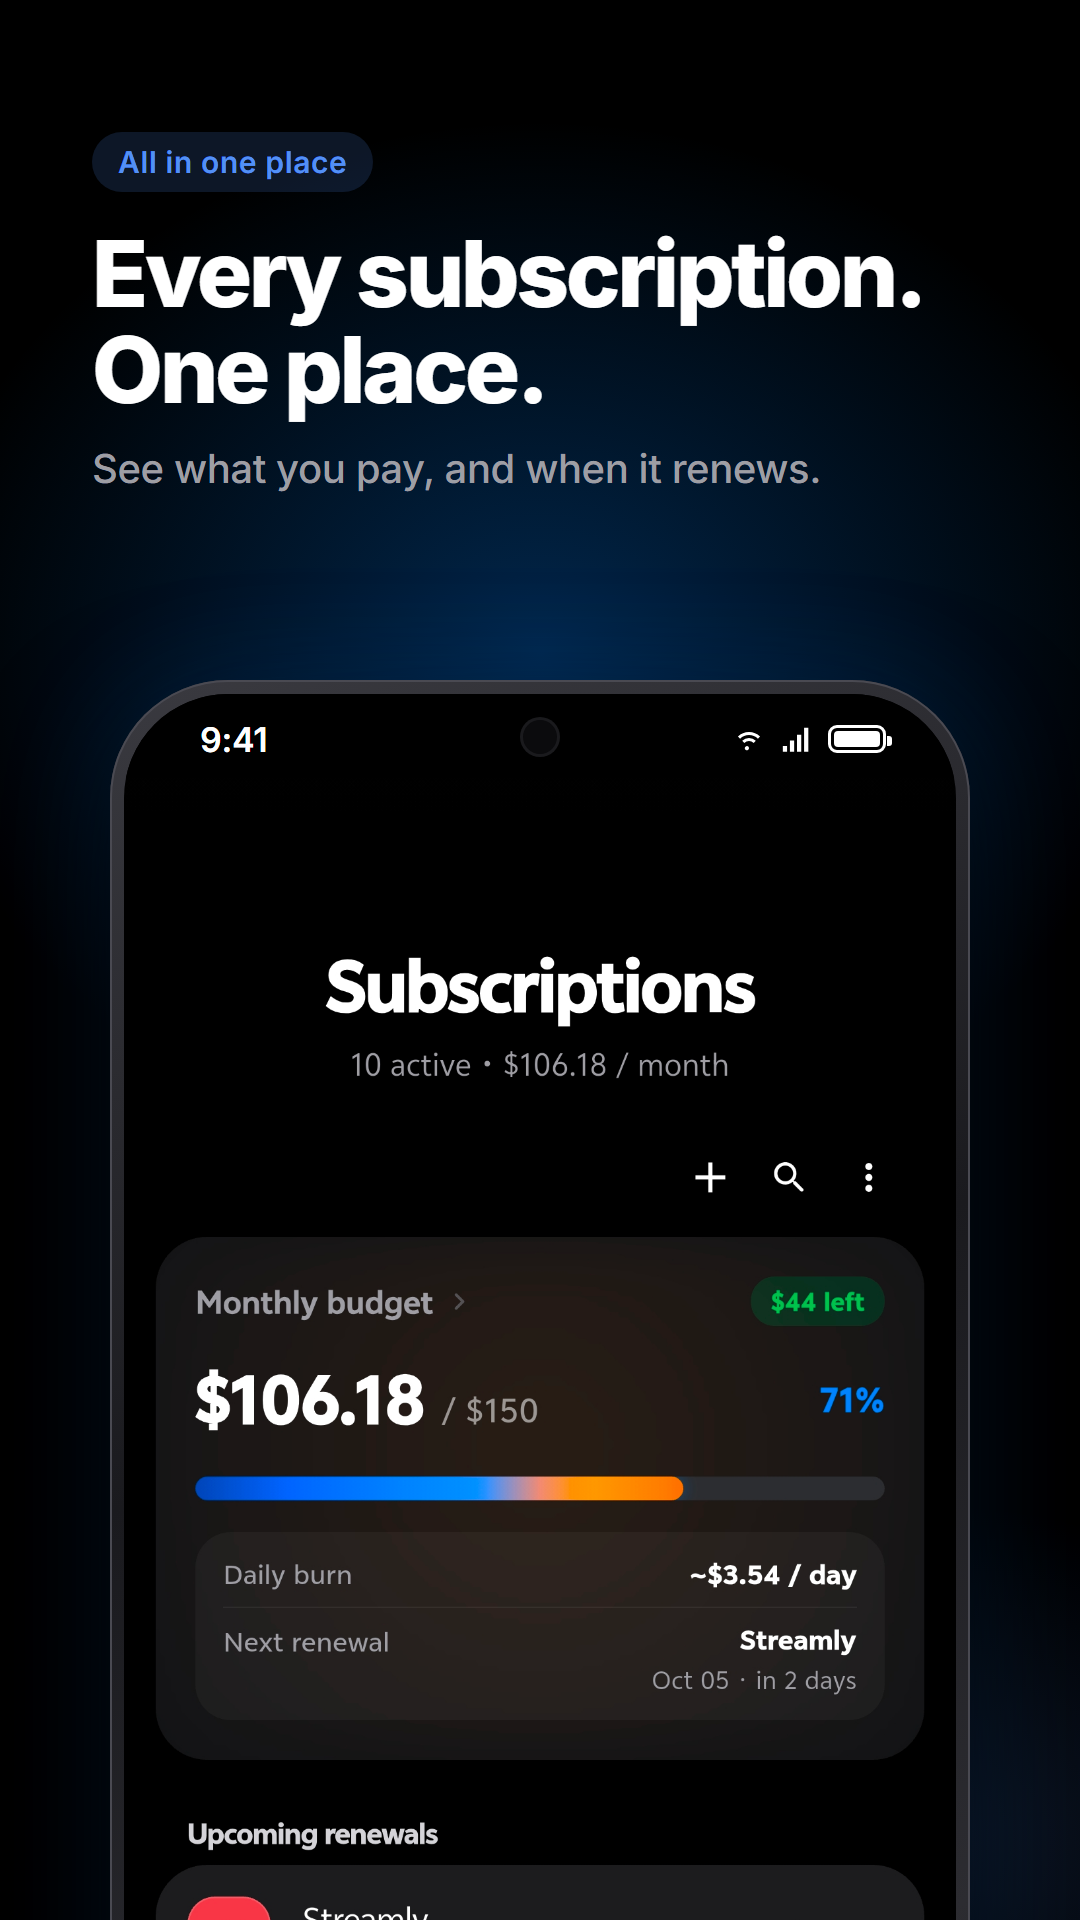
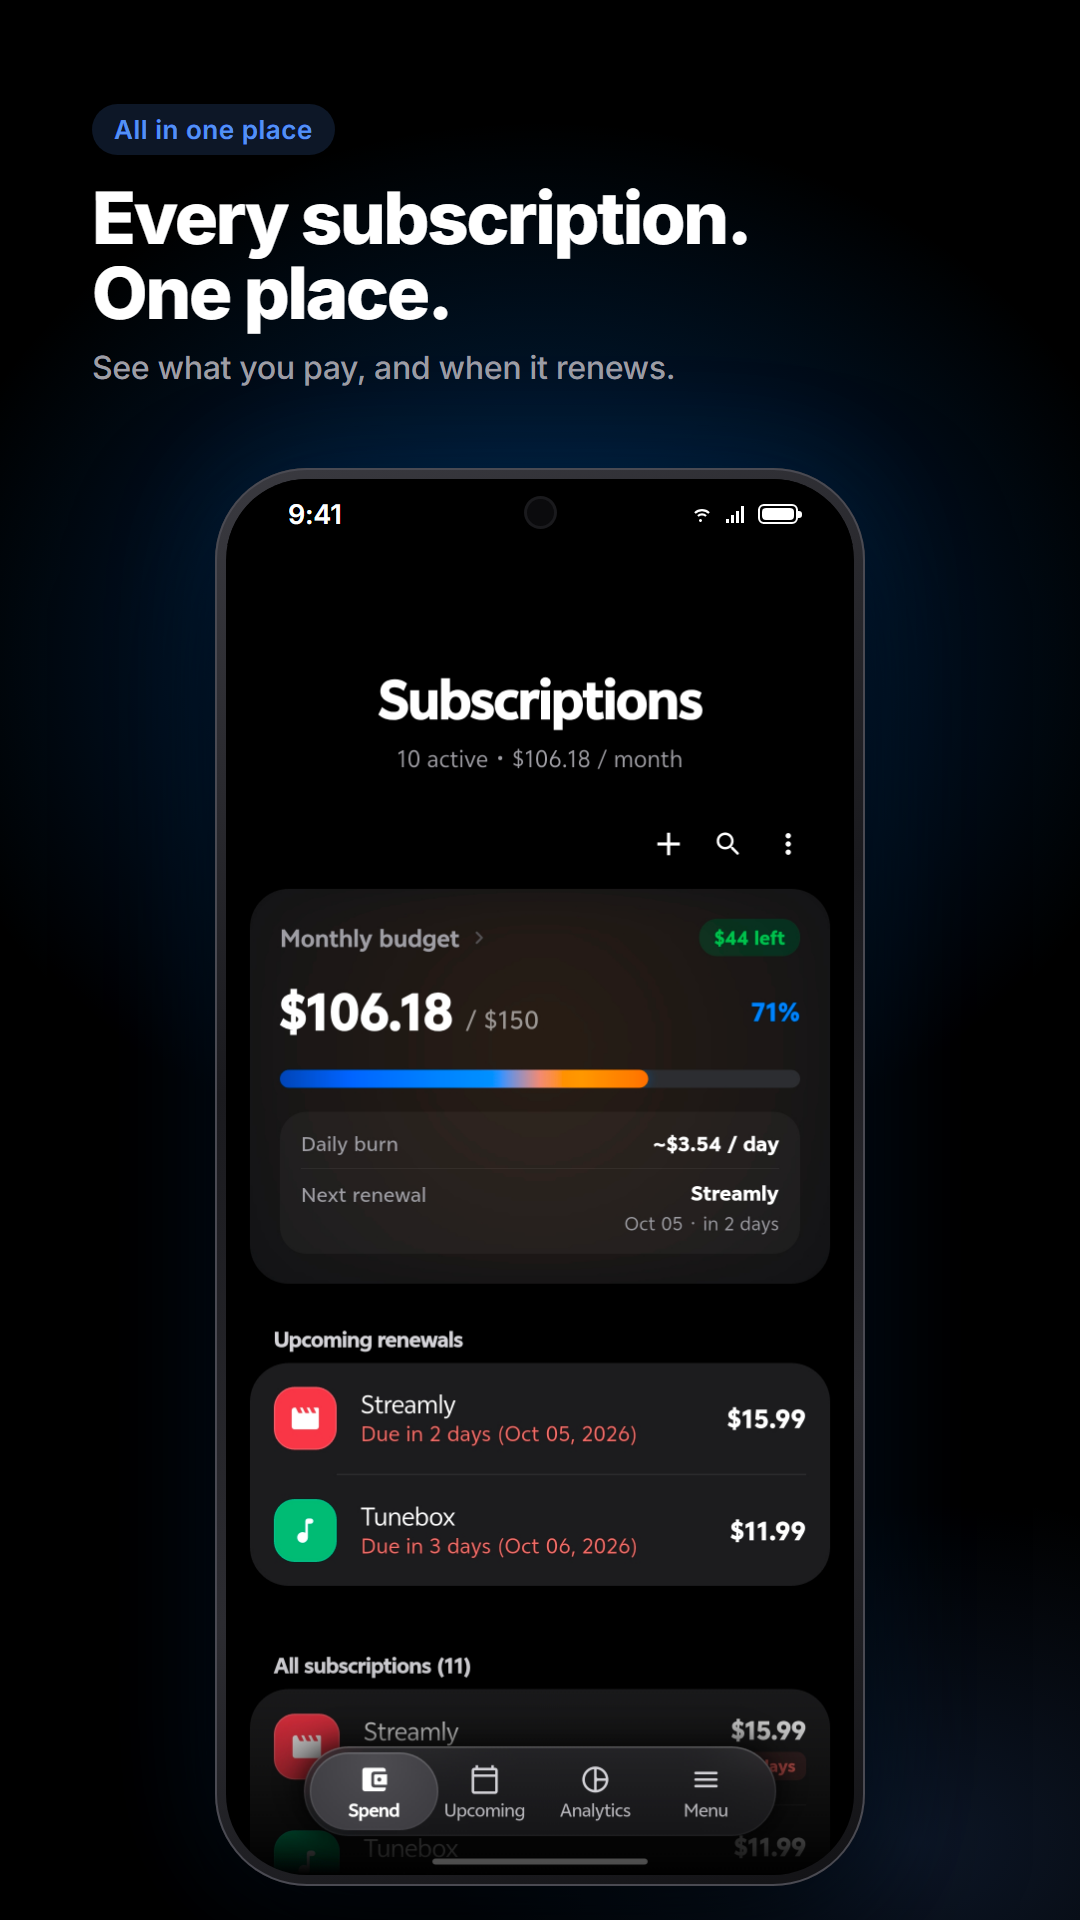
chore(store): full phone on slides 1-3, close-up on 4-8
Layouts are now chosen per slide; the full-phone slides keep the same
two-line headlines, set at 72 px so the whole phone fits.

diff --git a/tool/store_graphics/template.html b/tool/store_graphics/template.html
@@ -88,8 +88,8 @@
   .full .eyebrow { font-size: 26px; padding: 10px 22px; margin-bottom: 26px; }
   .full h1 { font-size: 72px; letter-spacing: -0.03em; }
   .full .sub { margin-top: 16px; font-size: 32px; }
-  .full .slide .phone { top: 398px !important; width: 690px; padding: 11px; border-radius: 96px; }
-  .full .slide .screen { border-radius: 85px; }
+  .full .slide .phone { top: 468px !important; width: 650px; padding: 11px; border-radius: 92px; }
+  .full .slide .screen { border-radius: 81px; }
   .full .slide .status { height: 66px; font-size: 27px; padding: 4px 56px 0 62px; }
   .full .slide .camera { top: 20px; width: 27px; height: 27px; margin-left: -13px; }
   .full .slide .battery { width: 40px; height: 20px; border-width: 2px; border-radius: 6px; padding: 2px; }
@@ -120,28 +120,28 @@
   // Captures are 1260 x 2800 (vivo X200 Pro). shift: capture pixels scrolled off the top
   // inside the frame; top: where the phone starts (close-up layout).
   const slides = {
-    1: { img: '1-subscriptions', short: 'All your subscriptions', shortSub: 'See what you pay and when it renews.',
+    1: { img: '1-subscriptions',
          eyebrow: 'All in one place', title: 'Every subscription.<br>One place.',
          sub: 'See what you pay, and when it renews.', accent: '#5390F5', glow: 'rgba(3,129,254,.30)', glow2: 'rgba(83,144,245,.16)' },
-    2: { img: '2-upcoming', short: 'Never miss a renewal', shortSub: 'Every charge, months ahead.',
+    2: { img: '2-upcoming',
          eyebrow: 'Upcoming', title: 'Never miss<br>a renewal.',
          sub: 'Every charge for the months ahead, at a glance.', accent: '#48B5A0', glow: 'rgba(72,181,160,.28)', glow2: 'rgba(72,181,160,.14)' },
-    3: { img: '3-trends', short: 'Spot every trend', shortSub: 'Your yearly total and smart tips.',
+    3: { img: '3-trends',
          eyebrow: 'Analytics', title: 'Spot the trend<br>before it costs you.',
          sub: 'Your yearly total, budget and smart money tips.', accent: '#00C05A', glow: 'rgba(0,192,90,.24)', glow2: 'rgba(0,192,90,.12)' },
-    4: { img: '4-categories', shift: 150, short: 'See where it goes', shortSub: 'Your spending by category.',
+    4: { img: '4-categories', shift: 150,
          eyebrow: 'Categories', title: 'See where every<br>dollar goes.',
          sub: 'A clear breakdown of what each kind of service costs.', accent: '#7E57C2', glow: 'rgba(126,87,194,.32)', glow2: 'rgba(240,113,103,.14)' },
-    5: { img: '5-detail', short: 'Every detail, one tap', shortSub: 'Price, cycle and renewal date.',
+    5: { img: '5-detail',
          eyebrow: 'Details', title: 'Every detail<br>in one tap.',
          sub: 'Price, billing cycle, next renewal and notes.', accent: '#F4A261', glow: 'rgba(244,162,97,.24)', glow2: 'rgba(83,144,245,.14)' },
-    6: { img: '6-reminders', short: 'Reminders, your way', shortSub: 'Pick when each heads-up arrives.',
+    6: { img: '6-reminders',
          eyebrow: 'Reminders', title: 'Reminders on<br>your schedule.',
          sub: 'Choose exactly when each heads-up arrives.', accent: '#48B5A0', glow: 'rgba(72,181,160,.28)', glow2: 'rgba(83,144,245,.12)' },
-    7: { img: '7-currency', short: 'Any currency, one total', shortSub: '45+ currencies, shown in yours.',
+    7: { img: '7-currency',
          eyebrow: 'Multi-currency', title: 'Any currency.<br>One total.',
          sub: 'Pay in 45+ currencies and see it all in yours.', accent: '#5390F5', glow: 'rgba(3,129,254,.28)', glow2: 'rgba(0,192,90,.12)' },
-    8: { img: '8-backup', short: 'Never lose a thing', shortSub: 'Backups and restore points.',
+    8: { img: '8-backup',
          eyebrow: 'Backup', title: 'Never lose<br>a thing.',
          sub: 'One-file backups and automatic restore points.', accent: '#FB8C00', glow: 'rgba(251,140,0,.22)', glow2: 'rgba(83,144,245,.12)' },
   };
@@ -154,7 +154,7 @@
     return `<div class="phone"${phoneStyle}><div class="screen"><img src="captures/${img}.png" alt=""${imgStyle}>${status}</div></div>`;
   }
 
-  // `#1-full` shows the whole phone instead of letting it run off the bottom.
+  // `#1-full` shows the whole phone (smaller copy) instead of letting it run off the bottom.
   const [key, mode] = (location.hash.slice(1) || '1').split('-');
   const full = mode === 'full';
   if (full) document.body.classList.add('full');
@@ -178,8 +178,8 @@
       <div class="slide">
         <div class="copy">
           <div class="eyebrow">${s.eyebrow}</div>
-          <h1>${full ? s.short : s.title}</h1>
-          <p class="sub">${full ? s.shortSub : s.sub}</p>
+          <h1>${s.title}</h1>
+          <p class="sub">${s.sub}</p>
         </div>
         ${full ? phone(s.img) : phone(s.img, s.shift, s.top)}
       </div>`;

diff --git a/tool/store_graphics/README.md b/tool/store_graphics/README.md
@@ -47,10 +47,9 @@ All the data in the screenshots is fictional: Streamly, Tunebox, Nova Bank and s
 ## How it's built
 
 - **`template.html`**: one slide per URL hash (`#1`–`#6`, `#feature`). Headline copy, accent colours, phone position (`top`) and capture offset (`shift`) are set in the `slides` table at the bottom.
-- **Two layouts:**
-  - **Full phone** (`#1-full`, the default in `render.ps1`): the whole phone under a short one-line headline (`short` / `shortSub`).
-  - **Close-up** (`#1`): a bigger phone running off the bottom, with a two-line headline (`title` / `sub`).
-  - To switch, set `$layout` in `render.ps1`.
+- **Two layouts, chosen per slide** in `$layouts` in `render.ps1`:
+  - **Full phone** (`#1-full`): the whole phone, with the headline set smaller. Used for slides 1–3.
+  - **Close-up** (`#4`): a bigger phone running off the bottom. Used for slides 4–8.
 - **`render.ps1`**: screenshots each slide with headless Chrome at exact pixel sizes.
 - **`finish.py`**: flattens the images to opaque PNGs, which Play requires for the feature graphic, checks their sizes, and writes the 512 px icon.
 - **The status bar is drawn**, always showing 9:41 with full battery and signal. The captured one is covered rather than changing the phone's demo mode.
